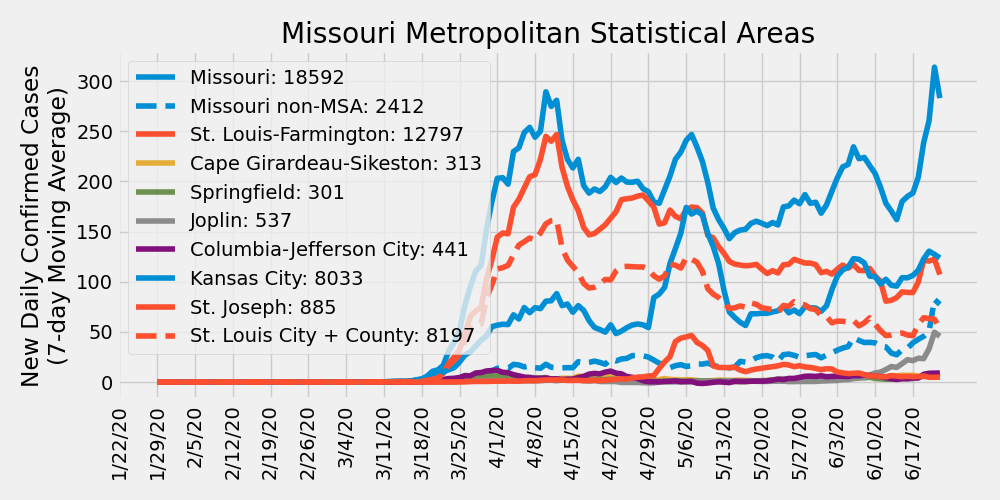
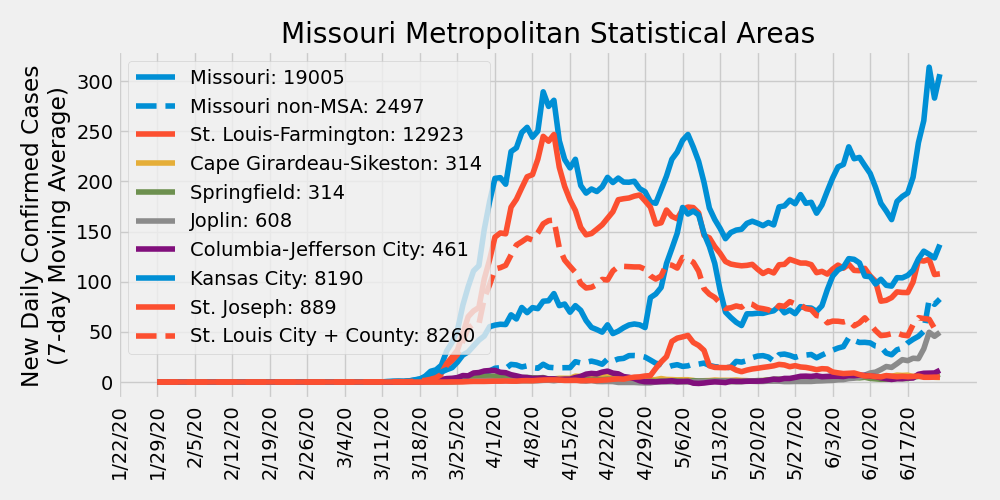
update 6/24/2020

diff --git a/ajvogt-analysis/missouri_analysis.md b/ajvogt-analysis/missouri_analysis.md
@@ -1,6 +1,6 @@
 # COVID-19 Missouri Statistics & Regional Breakdowns
 Author: Adam J. Vogt  
-Updated: 06/23/2020  
+Updated: 06/24/2020  
 Source: [COVID-19 Data Repository by the Center for Systems Science and Engineering (CSSE) at Johns Hopkins University](https://github.com/CSSEGISandData/COVID-19)  
 Source Code: `/ajvogt-analysis/mo_analysis_script.py`
 
@@ -26,67 +26,67 @@ Legend shows cumulative confirmed cases
 ## Metropolitan Statistical Area (MSA) Counties
 | MSA | State | County | Total Cases | Total Deaths |
 |-----|-------|--------|---|---|
-| St. Louis-Farmington | Missouri | Lincoln | 92 | 1 |
-| St. Louis-Farmington | Missouri | Warren | 33 | 0 |
-| St. Louis-Farmington | Missouri | Franklin | 191 | 18 |
-| St. Louis-Farmington | Missouri | Jefferson | 401 | 19 |
-| St. Louis-Farmington | Missouri | St. Charles | 957 | 69 |
-| St. Louis-Farmington | Missouri | St. Louis | 5878 | 551 |
+| St. Louis-Farmington | Missouri | Lincoln | 94 | 1 |
+| St. Louis-Farmington | Missouri | Warren | 34 | 0 |
+| St. Louis-Farmington | Missouri | Franklin | 193 | 18 |
+| St. Louis-Farmington | Missouri | Jefferson | 407 | 19 |
+| St. Louis-Farmington | Missouri | St. Charles | 968 | 69 |
+| St. Louis-Farmington | Missouri | St. Louis | 5941 | 555 |
 | St. Louis-Farmington | Missouri | St. Louis City | 2319 | 154 |
-| St. Louis-Farmington | Missouri | St. Francois | 68 | 2 |
+| St. Louis-Farmington | Missouri | St. Francois | 84 | 2 |
 | St. Louis-Farmington | Illinois | Monroe | 116 | 12 |
-| St. Louis-Farmington | Illinois | St. Clair | 1610 | 126 |
-| St. Louis-Farmington | Illinois | Madison | 815 | 67 |
+| St. Louis-Farmington | Illinois | St. Clair | 1624 | 127 |
+| St. Louis-Farmington | Illinois | Madison | 826 | 67 |
 | St. Louis-Farmington | Illinois | Macoupin | 47 | 3 |
-| St. Louis-Farmington | Illinois | Jersey | 33 | 1 |
-| St. Louis-Farmington | Illinois | Clinton | 224 | 17 |
+| St. Louis-Farmington | Illinois | Jersey | 32 | 1 |
+| St. Louis-Farmington | Illinois | Clinton | 225 | 17 |
 | St. Louis-Farmington | Illinois | Calhoun | 1 | 0 |
 | St. Louis-Farmington | Illinois | Bond | 12 | 1 |
-| Cape Girardeau-Sikeston | Missouri | Cape Girardeau | 121 | 3 |
+| Cape Girardeau-Sikeston | Missouri | Cape Girardeau | 123 | 3 |
 | Cape Girardeau-Sikeston | Missouri | Bollinger | 12 | 0 |
 | Cape Girardeau-Sikeston | Illinois | Alexander | 20 | 0 |
-| Cape Girardeau-Sikeston | Missouri | Scott | 160 | 11 |
-| Springfield | Missouri | Greene | 228 | 8 |
-| Springfield | Missouri | Christian | 32 | 0 |
-| Springfield | Missouri | Webster | 21 | 0 |
-| Springfield | Missouri | Polk | 10 | 0 |
-| Springfield | Missouri | Dallas | 10 | 0 |
-| Joplin | Missouri | Jasper | 269 | 0 |
-| Joplin | Missouri | Newton | 268 | 2 |
+| Cape Girardeau-Sikeston | Missouri | Scott | 159 | 11 |
+| Springfield | Missouri | Greene | 233 | 8 |
+| Springfield | Missouri | Christian | 35 | 0 |
+| Springfield | Missouri | Webster | 22 | 1 |
+| Springfield | Missouri | Polk | 12 | 0 |
+| Springfield | Missouri | Dallas | 12 | 0 |
+| Joplin | Missouri | Jasper | 324 | 0 |
+| Joplin | Missouri | Newton | 284 | 2 |
 | Columbia-Jefferson City | Missouri | Howard | 5 | 0 |
-| Columbia-Jefferson City | Missouri | Boone | 266 | 2 |
+| Columbia-Jefferson City | Missouri | Boone | 280 | 2 |
 | Columbia-Jefferson City | Missouri | Cooper | 13 | 0 |
 | Columbia-Jefferson City | Missouri | Moniteau | 49 | 1 |
-| Columbia-Jefferson City | Missouri | Cole | 61 | 1 |
-| Columbia-Jefferson City | Missouri | Callaway | 42 | 1 |
-| Columbia-Jefferson City | Missouri | Osage | 5 | 0 |
-| Kansas City | Missouri | Kansas City | 1945 | 31 |
-| Kansas City | Missouri | Jackson | 1030 | 23 |
-| Kansas City | Missouri | Clay | 348 | 8 |
+| Columbia-Jefferson City | Missouri | Cole | 63 | 2 |
+| Columbia-Jefferson City | Missouri | Callaway | 45 | 1 |
+| Columbia-Jefferson City | Missouri | Osage | 6 | 0 |
+| Kansas City | Missouri | Kansas City | 2014 | 31 |
+| Kansas City | Missouri | Jackson | 1054 | 23 |
+| Kansas City | Missouri | Clay | 367 | 8 |
 | Kansas City | Missouri | Cass | 116 | 8 |
-| Kansas City | Missouri | Platte | 102 | 4 |
+| Kansas City | Missouri | Platte | 105 | 4 |
 | Kansas City | Missouri | Lafayette | 86 | 2 |
 | Kansas City | Missouri | Ray | 25 | 0 |
 | Kansas City | Missouri | Clinton | 23 | 0 |
 | Kansas City | Missouri | Bates | 12 | 1 |
 | Kansas City | Missouri | Caldwell | 9 | 0 |
-| Kansas City | Kansas | Johnson | 1277 | 80 |
-| Kansas City | Kansas | Wyandotte | 1896 | 78 |
+| Kansas City | Kansas | Johnson | 1316 | 81 |
+| Kansas City | Kansas | Wyandotte | 1899 | 78 |
 | Kansas City | Kansas | Leavenworth | 1132 | 7 |
 | Kansas City | Kansas | Miami | 20 | 0 |
 | Kansas City | Kansas | Linn | 12 | 0 |
-| St. Joseph | Missouri | Andrew | 42 | 0 |
-| St. Joseph | Missouri | Buchanan | 809 | 3 |
+| St. Joseph | Missouri | Andrew | 43 | 0 |
+| St. Joseph | Missouri | Buchanan | 812 | 3 |
 | St. Joseph | Missouri | DeKalb | 10 | 0 |
 | St. Joseph | Kansas | Doniphan | 24 | 0 |
 | Missouri non-MSA | Missouri | Adair |  86 | 0 |
 | Missouri non-MSA | Missouri | Atchison |  3 | 0 |
-| Missouri non-MSA | Missouri | Audrain |  134 | 1 |
+| Missouri non-MSA | Missouri | Audrain |  137 | 1 |
 | Missouri non-MSA | Missouri | Barry |  31 | 0 |
-| Missouri non-MSA | Missouri | Barton |  15 | 0 |
-| Missouri non-MSA | Missouri | Benton |  15 | 0 |
-| Missouri non-MSA | Missouri | Butler |  62 | 0 |
-| Missouri non-MSA | Missouri | Camden |  50 | 1 |
+| Missouri non-MSA | Missouri | Barton |  16 | 0 |
+| Missouri non-MSA | Missouri | Benton |  16 | 0 |
+| Missouri non-MSA | Missouri | Butler |  67 | 0 |
+| Missouri non-MSA | Missouri | Camden |  54 | 1 |
 | Missouri non-MSA | Missouri | Carroll |  11 | 0 |
 | Missouri non-MSA | Missouri | Carter |  6 | 1 |
 | Missouri non-MSA | Missouri | Cedar |  9 | 0 |
@@ -95,44 +95,44 @@ Legend shows cumulative confirmed cases
 | Missouri non-MSA | Missouri | Crawford |  10 | 0 |
 | Missouri non-MSA | Missouri | Dade |  1 | 0 |
 | Missouri non-MSA | Missouri | Daviess |  7 | 0 |
-| Missouri non-MSA | Missouri | Dent |  1 | 0 |
+| Missouri non-MSA | Missouri | Dent |  2 | 0 |
 | Missouri non-MSA | Missouri | Douglas |  3 | 0 |
-| Missouri non-MSA | Missouri | Dunklin |  79 | 3 |
-| Missouri non-MSA | Missouri | Gasconade |  4 | 0 |
-| Missouri non-MSA | Missouri | Gentry |  55 | 9 |
+| Missouri non-MSA | Missouri | Dunklin |  81 | 3 |
+| Missouri non-MSA | Missouri | Gasconade |  5 | 0 |
+| Missouri non-MSA | Missouri | Gentry |  56 | 9 |
 | Missouri non-MSA | Missouri | Grundy |  17 | 0 |
-| Missouri non-MSA | Missouri | Harrison |  11 | 0 |
+| Missouri non-MSA | Missouri | Harrison |  12 | 0 |
 | Missouri non-MSA | Missouri | Henry |  17 | 3 |
 | Missouri non-MSA | Missouri | Hickory |  0 | 0 |
 | Missouri non-MSA | Missouri | Holt |  1 | 0 |
 | Missouri non-MSA | Missouri | Howell |  30 | 0 |
 | Missouri non-MSA | Missouri | Iron |  2 | 0 |
 | Missouri non-MSA | Missouri | Knox |  2 | 0 |
-| Missouri non-MSA | Missouri | Laclede |  20 | 0 |
-| Missouri non-MSA | Missouri | Lawrence |  13 | 0 |
+| Missouri non-MSA | Missouri | Laclede |  19 | 0 |
+| Missouri non-MSA | Missouri | Lawrence |  19 | 0 |
 | Missouri non-MSA | Missouri | Lewis |  7 | 1 |
 | Missouri non-MSA | Missouri | Livingston |  7 | 0 |
-| Missouri non-MSA | Missouri | McDonald |  371 | 0 |
+| Missouri non-MSA | Missouri | McDonald |  403 | 0 |
 | Missouri non-MSA | Missouri | Macon |  7 | 0 |
-| Missouri non-MSA | Missouri | Maries |  3 | 0 |
-| Missouri non-MSA | Missouri | Marion |  11 | 0 |
+| Missouri non-MSA | Missouri | Maries |  4 | 0 |
+| Missouri non-MSA | Missouri | Marion |  13 | 0 |
 | Missouri non-MSA | Missouri | Mercer |  5 | 0 |
 | Missouri non-MSA | Missouri | Miller |  11 | 0 |
-| Missouri non-MSA | Missouri | Mississippi |  79 | 0 |
-| Missouri non-MSA | Missouri | Montgomery |  13 | 0 |
-| Missouri non-MSA | Missouri | Morgan |  12 | 0 |
-| Missouri non-MSA | Missouri | New Madrid |  34 | 1 |
-| Missouri non-MSA | Missouri | Nodaway |  17 | 0 |
+| Missouri non-MSA | Missouri | Mississippi |  80 | 0 |
+| Missouri non-MSA | Missouri | Montgomery |  15 | 0 |
+| Missouri non-MSA | Missouri | Morgan |  11 | 0 |
+| Missouri non-MSA | Missouri | New Madrid |  36 | 1 |
+| Missouri non-MSA | Missouri | Nodaway |  18 | 0 |
 | Missouri non-MSA | Missouri | Oregon |  6 | 0 |
 | Missouri non-MSA | Missouri | Ozark |  1 | 0 |
 | Missouri non-MSA | Missouri | Pemiscot |  106 | 6 |
-| Missouri non-MSA | Missouri | Perry |  104 | 0 |
-| Missouri non-MSA | Missouri | Pettis |  100 | 1 |
-| Missouri non-MSA | Missouri | Phelps |  7 | 0 |
+| Missouri non-MSA | Missouri | Perry |  111 | 0 |
+| Missouri non-MSA | Missouri | Pettis |  102 | 1 |
+| Missouri non-MSA | Missouri | Phelps |  8 | 0 |
 | Missouri non-MSA | Missouri | Pike |  34 | 1 |
 | Missouri non-MSA | Missouri | Pulaski |  106 | 1 |
 | Missouri non-MSA | Missouri | Putnam |  2 | 0 |
-| Missouri non-MSA | Missouri | Ralls |  6 | 0 |
+| Missouri non-MSA | Missouri | Ralls |  7 | 0 |
 | Missouri non-MSA | Missouri | Randolph |  12 | 0 |
 | Missouri non-MSA | Missouri | Reynolds |  2 | 0 |
 | Missouri non-MSA | Missouri | Ripley |  14 | 0 |
@@ -142,13 +142,13 @@ Legend shows cumulative confirmed cases
 | Missouri non-MSA | Missouri | Scotland |  8 | 1 |
 | Missouri non-MSA | Missouri | Shannon |  6 | 0 |
 | Missouri non-MSA | Missouri | Shelby |  2 | 0 |
-| Missouri non-MSA | Missouri | Stoddard |  127 | 8 |
-| Missouri non-MSA | Missouri | Stone |  10 | 0 |
-| Missouri non-MSA | Missouri | Sullivan |  102 | 0 |
-| Missouri non-MSA | Missouri | Taney |  32 | 2 |
+| Missouri non-MSA | Missouri | Stoddard |  129 | 8 |
+| Missouri non-MSA | Missouri | Stone |  11 | 0 |
+| Missouri non-MSA | Missouri | Sullivan |  103 | 0 |
+| Missouri non-MSA | Missouri | Taney |  34 | 2 |
 | Missouri non-MSA | Missouri | Texas |  2 | 0 |
 | Missouri non-MSA | Missouri | Vernon |  13 | 0 |
-| Missouri non-MSA | Missouri | Washington |  14 | 1 |
-| Missouri non-MSA | Missouri | Wayne |  1 | 0 |
+| Missouri non-MSA | Missouri | Washington |  15 | 1 |
+| Missouri non-MSA | Missouri | Wayne |  3 | 0 |
 | Missouri non-MSA | Missouri | Worth |  4 | 0 |
 | Missouri non-MSA | Missouri | Wright |  14 | 0 |
